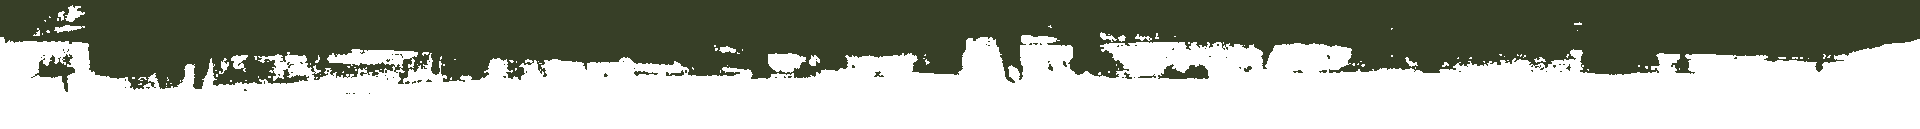
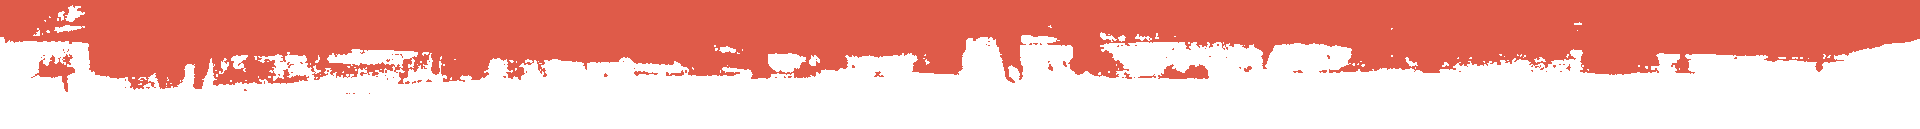
Third Commit

diff --git a/app.js b/app.js
@@ -6,6 +6,7 @@ const bodyParser = require("body-parser");
 const { check, validationResult } = require("express-validator/check");
 const { matchedData, sanitized } = require("express-validator/filter");
 const mysql = require("mysql");
+const multer = require("multer");
 const session = require("express-session");
 // CREATE A CONNECTION
 
@@ -14,6 +15,17 @@ const connection = mysql.createConnection({
   password: "",
   user: "root",
   database: "Blopen"
+});
+//CREATE STORAGE FOR PICTURE STORAGE
+
+const storage = multer.diskStorage({
+  destination: "./public/images/uploaded",
+  filename: (req, file, cb) => {
+    cb(
+      null,
+      file.fieldname + "-" + Date.now() + path.extname(file.originalname)
+    );
+  }
 });
 
 //EXPRESS SESSION
@@ -46,7 +58,11 @@ app.get("/", (req, res) => {
   if (req.session.loggedin) {
     res.render("index", { title: "|Home|", user: req.session.user });
   } else {
-    res.render("silog", { title: "|Log/Sign|" });
+    res.render("silog", {
+      title: "|Log/Sign|",
+      cross: "images/Empty.png",
+      cross2: "images/Empty.png"
+    });
   }
 });
 //LOGIN
@@ -62,30 +78,47 @@ app.post(
       .isLength({ min: 8 })
   ],
   (req, res) => {
-    const errors = validationResult(req);
+    if (!req.session.loggedin) {
+      const errors = validationResult(req);
 
-    console.log(errors.mapped());
+      console.log(errors.mapped());
 
-    if (!errors.isEmpty()) {
-      res.send("NOT LOGINED");
-    } else {
-      var email = req.body.Lemail;
-      var pass = req.body.Lpass;
-      if (email && pass) {
-        var sql = "SELECT * FROM silog WHERE Email=? AND Password=?";
-        connection.query(sql, [email, pass], (error, results, fields) => {
-          if (results.length > 0) {
-            req.session.loggedin = true;
-            req.session.user = results[0].Name;
-            res.redirect("/");
-          } else {
-            res.send("NOT LOGGINED");
-          }
-          res.end();
+      if (!errors.isEmpty()) {
+        res.render("silog", {
+          title: "|Log/Sign|",
+          cross: "images/Empty.png",
+          cross2: "images/cross.png"
         });
       } else {
-        res.send("NOT LOGGINED");
+        var email = req.body.Lemail;
+        var pass = req.body.Lpass;
+        if (email && pass) {
+          var sql = "SELECT * FROM silog WHERE Email=? AND Password=?";
+          connection.query(sql, [email, pass], (error, results, fields) => {
+            if (results.length > 0) {
+              req.session.loggedin = true;
+              req.session.user = results[0].Name;
+              req.session.id = results[0].Id;
+              res.redirect("/");
+            } else {
+              res.render("silog", {
+                title: "|Log/Sign|",
+                cross: "images/Empty.png",
+                cross2: "images/cross.png"
+              });
+            }
+            res.end();
+          });
+        } else {
+          res.render("silog", {
+            title: "|Log/Sign|",
+            cross: "images/Empty.png",
+            cross2: "images/cross.png"
+          });
+        }
       }
+    } else {
+      res.redirect("/");
     }
   }
 );
@@ -95,33 +128,65 @@ app.post(
 app.post(
   "/signup",
   [
+    check("Sname", "Max should be 15")
+      .trim()
+      .isLength({ max: 15 }),
     check("Semail", "Invalid Email")
       .trim()
       .isEmail(),
     check("Spass", "Password minimum should be 8")
       .trim()
-      .isLength({ min: 8 })
+      .isLength({ min: 8 }),
+    check("Scpass").custom((value, { req }) => {
+      if (value != req.body.Spass) {
+        res.render("silog", {
+          title: "|Log/Sign|",
+          cross: "images/cross.png",
+          cross2: "images/Empty.png"
+        });
+        console.log("here2");
+      } else {
+        return true;
+      }
+    })
   ],
   (req, res) => {
-    const errors = validationResult(req);
-    if (!errors.isEmpty()) {
-      res.send("NOT SIGNED");
-    } else {
-      var sql = "INSERT INTO silog(Name,Password,Email) VALUES(?,?,?)";
-      connection.query(
-        sql,
-        [req.body.Sname, req.body.Spass, req.body.Semail],
-        (err, result, fields) => {
-          if (err) {
-          } else {
-            res.render("Profile_pic");
+    if (!req.session.loggedin) {
+      const errors = validationResult(req);
+      if (!errors.isEmpty()) {
+        res.render("silog", {
+          title: "|Log/Sign|",
+          cross: "images/cross.png",
+          cross2: "images/Empty.png"
+        });
+        console.log(errors.mapped());
+      } else {
+        var sql = "INSERT INTO silog(Name,Password,Email) VALUES(?,?,?)";
+        connection.query(
+          sql,
+          [req.body.Sname, req.body.Spass, req.body.Semail],
+          (err, result, fields) => {
+            if (err) {
+              res.render("silog", {
+                title: "|Log/Sign|",
+                cross: "images/cross.png",
+                cross2: "images/Empty.png"
+              });
+              console.log("here3");
+            } else {
+              res.redirect("/upload");
+            }
           }
-        }
-      );
+        );
+      }
+    } else {
+      res.redirect("/");
     }
   }
 );
-
+app.get("/upload", (req, res) => {
+  res.render("Profile_pic");
+});
 app.get("/logout", (req, res) => {
   if (req.session.loggedin) {
     req.session.loggedin = false;

diff --git a/public/stylesheets/Profile_pic.css b/public/stylesheets/Profile_pic.css
@@ -1,0 +1,68 @@
+@font-face {
+  font-family: "Vkts";
+  src: url(../fonts/vtks-distress.woff);
+}
+
+* {
+  text-decoration: none;
+  list-style: none;
+}
+
+body {
+  padding: 0;
+  margin: 0;
+  overflow-y: scroll;
+  overflow-x: hidden;
+  background: url(../images/pro_back.jpg);
+  background-position: center;
+  background-size: cover;
+  background-repeat: no-repeat;
+  background-attachment: fixed;
+}
+
+header {
+  width: 100%;
+  height: 5em;
+  padding: 20px 0px 20px 0;
+  font-family: "vkts";
+  box-shadow: inset 0px 5px 5px black;
+  color: #f5deb3;
+  margin: 0;
+  background: rgb(55, 63, 39);
+}
+#icon {
+  float: left;
+  margin-top: 10px;
+  margin-left: 30px;
+}
+
+header h1 {
+  float: left;
+  font-size: 50px;
+  letter-spacing: 1.5px;
+  margin-top: 10px;
+  margin-left: 10px;
+  text-shadow: #cda3af 1px 1px;
+  text-shadow: 2px 2px #cda34f;
+}
+
+#border {
+  margin-top: -5px;
+  height: auto;
+  width: 100%;
+}
+@media only screen and (max-width: 768px) {
+  header h1 {
+    font-size: 40px;
+    margin-top: 20px;
+  }
+
+  #icon {
+    height: 35px;
+    width: 35px;
+    margin-top: 27px;
+  }
+  #border {
+    margin-top: 5px;
+  }
+}

diff --git a/public/stylesheets/silog.css b/public/stylesheets/silog.css
@@ -114,7 +114,7 @@ header h1 {
   display: flex;
   flex-direction: column;
   /* background: rgba(55, 63, 39, 0.7); */
-  background: rgba(223, 91, 73, 0.5);
+  background: rgb(55, 63, 39, 0.5);
   height: 30em;
   padding: 40px 5em;
   margin: 30px 0px;
@@ -130,15 +130,21 @@ header h1 {
   font-size: 50px;
 }
 .body input {
-  height: 3em;
+  height: 2em;
   width: 20em;
   font-size: 17px;
   font-weight: bold;
   color: wheat;
   text-shadow: 1px 1px black;
-  background: rgba(255, 255, 255, 0.3);
-  border: 0p 0p 2px 0p solid wheat;
-  text-align: center;
+  background: rgba(245, 222, 179, 0.2);
+  border-left: none;
+  border-right: none;
+  border-top: none;
+  border-bottom: 2px solid rgb(245, 222, 179);
+  padding-left: 20px;
+  transition: all 0.3s ease-in-out;
+  font-family: "Yanone Kaffeesatz", sans-serif;
+  letter-spacing: 2px;
 }
 
 .body input::placeholder {
@@ -164,4 +170,9 @@ header h1 {
 .body button:hover {
   box-shadow: inset 0px -60px wheat;
   color: #df5b49;
+}
+
+.body input:focus {
+  box-shadow: 5px 5px 20px black;
+  outline: none;
 }

diff --git a/public/stylesheets/index.css b/public/stylesheets/index.css
@@ -62,7 +62,7 @@ header h1 {
 
 nav {
   position: fixed;
-  background: rgba(223, 91, 73, 0.85);
+  background: rgba(223, 91, 73, 0.95);
   height: 100%;
   width: 0em;
   top: 0;
